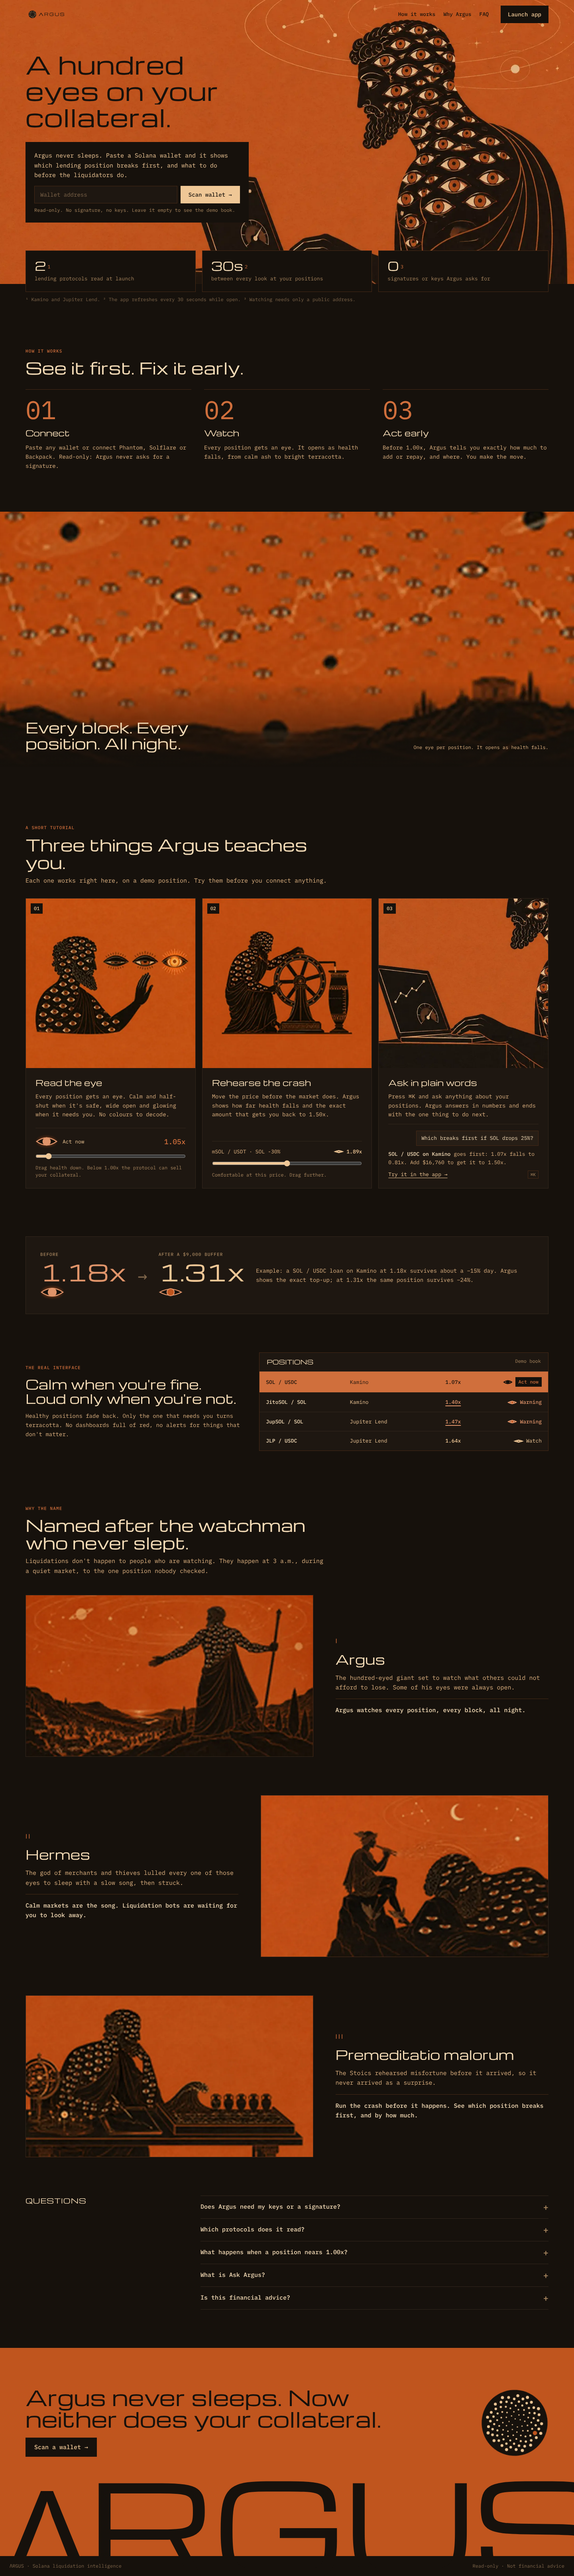
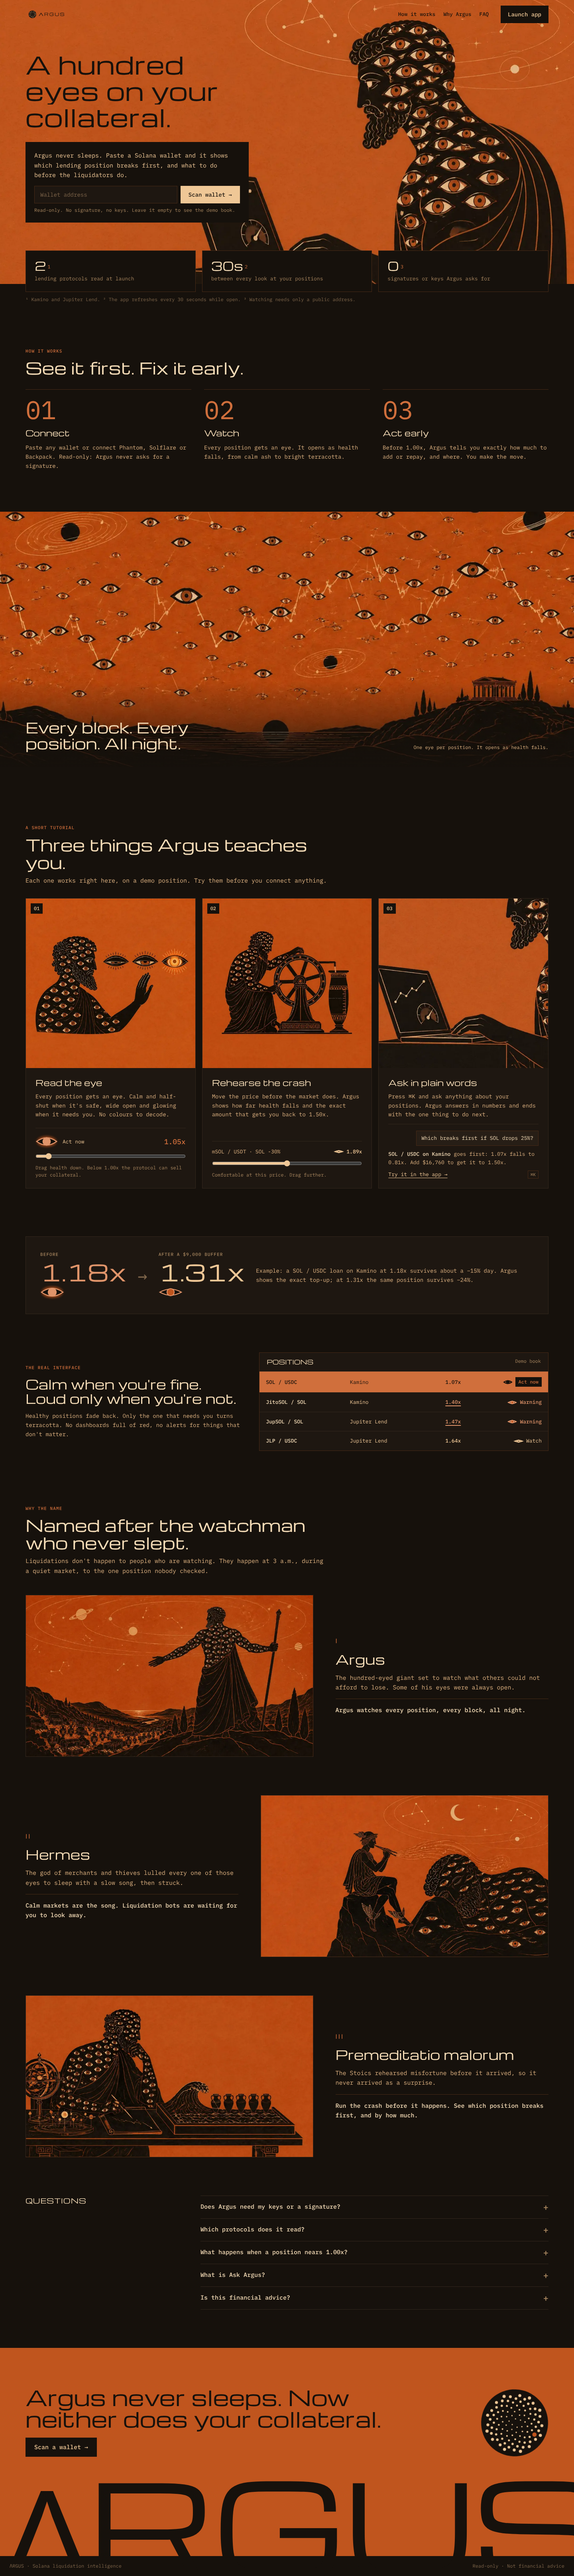
Design: illustration masters and the as-built landing
design/brand/illustrations/: lossless masters of all seven illustrations (hero,
frieze, tut-eye, tut-dial, watch, hermes, stoic) with a README mapping each to
its web copy, landing section and Canva id. screens/Landing.png is now the
landing as built; the first mock-up is kept as Landing-early-mockup.png.
Landing captures in built/ refreshed from the current build.

Claude-Session: https://claude.ai/code/session_01VHDF15QaGhxqaapK8aSxnY

diff --git a/design/README.md b/design/README.md
@@ -7,11 +7,12 @@ Everything designed for Argus v2, exported from the Claude Design canvas on 12 O
 | --- | --- |
 | `built/` | **What's actually built** (captured from the running app): full pages on desktop and phone, every landing section, interactive states (drawer, Ask Argus, wallet), the `/kit` component sheet, landing motion videos and the app motion video (`video/app-motion-desktop.mp4`). When `built/` and `screens/` disagree, `built/` wins |
 | `prototype/argus-prototype.html` | **Clickable prototype**: the **landing as built** (Hermes chapters, tutorial with working sliders, frieze, new illustrations, motion; embedded from the real page) → the canvas designs for Wallet → Overview → Positions → Terminal, Radar, Alerts, Activity, Ask Argus (⌘K bar + panel). Every nav item and the main buttons are wired; segmented controls switch; Esc / ← go back; "Show clickable" outlines hotspots. Motion matches the app: screens settle in section by section, risk eyes wake, panels slide, Terminal candles grow and liquidation lines draw, Radar rings expand and stars twinkle, critical rows breathe (all off under reduced motion; video: `built/video/prototype-motion-desktop.mp4`). One offline file. Rebuild after canvas or landing changes: `npm run build && python3 design/tools/build_prototype.py` |
-| `screens/` | The original product screen and landing mock-ups, as PNG |
+| `screens/` | Product screen mock-ups as PNG. `Landing.png` is now **the landing as built** (refreshed 12 Oct); the first canvas mock-up is kept as `Landing-early-mockup.png` |
 | `system/` | Brand, type, components, risk colours, living favicon spec, voice and copy |
 | `explorations/` | Logo rounds 1–3 (history only; the final logo is in `brand/logo/`) |
 | `research/` | Inspiration research: the sites you picked from the Inspo catalogue (4 batches, with palettes, fonts and signature moves) and the catalogue studies (full, maximalism, brutalism) |
 | `tools/` | `build_prototype.py` + `prototype.js` (builds the clickable prototype from `source/`), `final_logo.py` (Hundred logo), `boards/*.py` (how the canvas boards were built; reference only) |
+| `brand/illustrations/` | **Master copies of all 7 illustrations** (lossless PNG): hero, frieze, tutorial eye and wheel, Argus watch, Hermes, Argus rehearsing. The site uses compressed JPGs of these from `public/brand/`. README lists where each is used and its Canva id |
 | `brand/argus-logo-hundred.zip` | The logo kit as one download |
 | `brand/logo/` | Final "Hundred" logo kit: lockups, marks (L/M/S × terracotta/dark/mono), app icon, PNGs |
 | `brand/argus-tokens.css` | The original colour/type token file. The live version is `app/globals.css` |
@@ -21,7 +22,7 @@ Everything designed for Argus v2, exported from the Claude Design canvas on 12 O
 
 | Screen | File | In the app? |
 | --- | --- | --- |
-| Landing | `screens/Landing.png` | Built and extended (tutorial, illustrated myth chapters, motion). The code is now ahead of this mock-up |
+| Landing | `screens/Landing.png` (as built) | Built: tutorial, illustrated myth chapters, night-watch band, motion. Early mock-up: `screens/Landing-early-mockup.png` |
 | Overview | `screens/Overview.png` | Built (`/app`) |
 | Positions + drawer | `screens/Positions.png` | Built (`/app/positions`) |
 | Wallet connect | `screens/Wallet.png` | Built (wallet modal, restyled) |

diff --git a/design/brand/illustrations/README.md b/design/brand/illustrations/README.md
@@ -1,0 +1,17 @@
+# Illustrations: masters
+
+Full-quality originals of every illustration on the site (PNG, lossless). The site serves compressed JPG copies from `public/brand/`; edit or re-export from these, never from the JPGs.
+
+Style for anything new: Greek black-figure vase painting, flat black figures with fine incised sand lines on a terracotta ground, Argus always covered in open eyes, no text in the image. Generate with `hero.png` (and ideally `stoic.png`) as style references.
+
+| Master | Used as | Where on the landing | Canva media id |
+| --- | --- | --- | --- |
+| `hero.png` | `public/brand/hero.jpg` | Hero (and the cropped `tut-ask.jpg`, tutorial step 3) | MAHXuFHojps |
+| `frieze.png` | `public/brand/frieze.jpg` | Night-watch band: "Every block. Every position. All night." | MAHXujP-Q5Y |
+| `tut-eye.png` | `public/brand/tut-eye.jpg` | Tutorial 01 · Read the eye | MAHXuraG9Hw |
+| `tut-dial.png` | `public/brand/tut-dial.jpg` | Tutorial 02 · Rehearse the crash | MAHXurx0LWY |
+| `watch.png` | `public/brand/watch.jpg` | Why the name · I Argus | MAHXutrBXoc |
+| `hermes.png` | `public/brand/hermes.jpg` | Why the name · II Hermes | MAHXurH5Mwc |
+| `stoic.png` | `public/brand/stoic.jpg` | Why the name · III Premeditatio malorum (Argus rehearsing the crash) | MAHXukNBac4 |
+
+Web copies: JPG, about 1680 px wide (squares 1000 px), quality 82, about 150–270 KB each.
